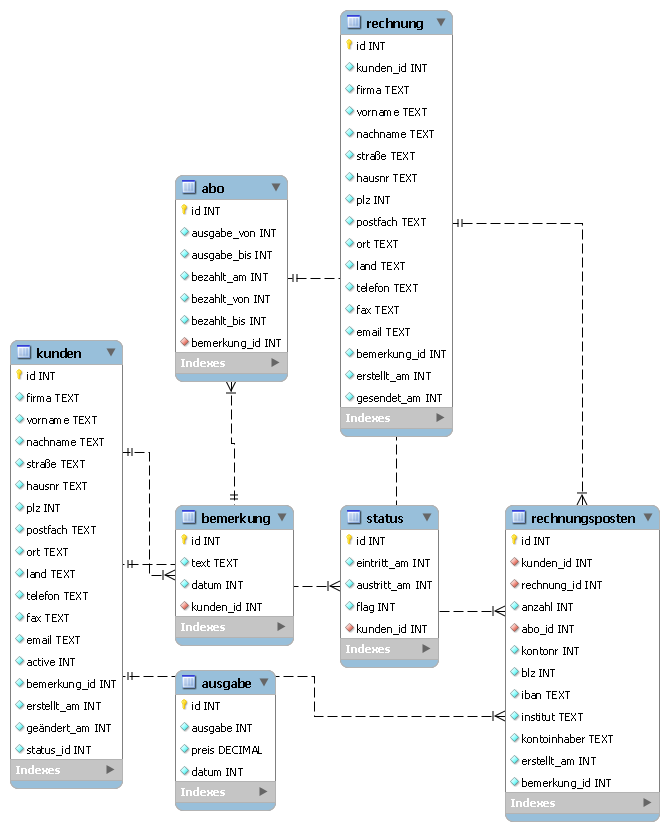
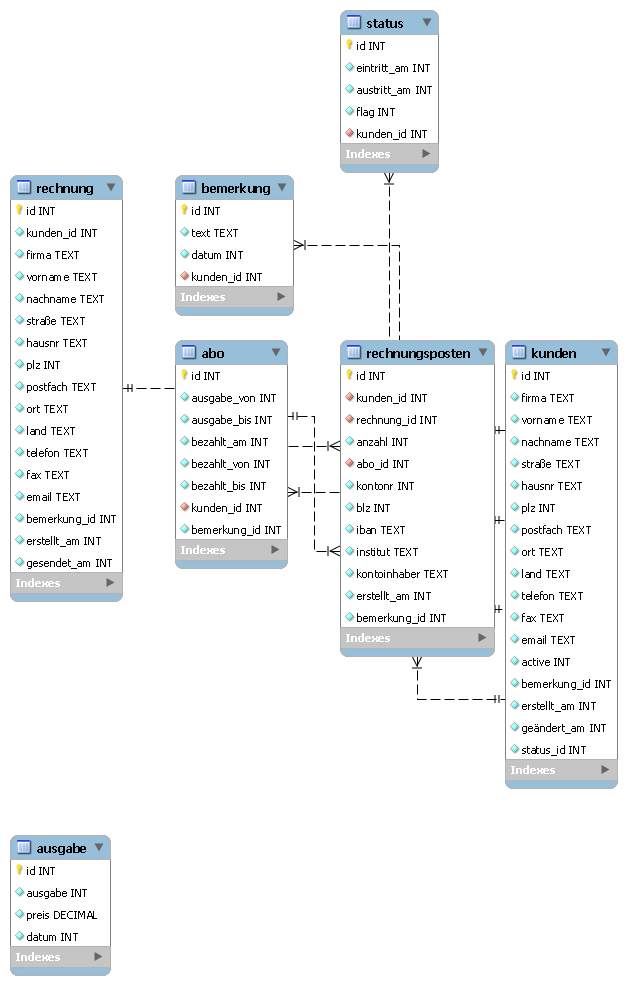
Abo-Tabelle: foreign key für bemerkung_id entfernt, kunden_id mit foreign key hinzugefügt. Die SQL-Scripte sowie Diagramme an die Änderungen angepasst.

Changed region(s): [[0.0, 0.0, 1.0, 0.9928]]

diff --git a/consolen_anwendung/DBTest/Program.cs b/consolen_anwendung/DBTest/Program.cs
@@ -41,7 +41,7 @@ namespace DBTest
             Console.WriteLine("Datenbankversion: " + db.getVersionString());
 
             createSampleDataAllTables(db); //keine Änderung
-            //createSampleDataAllTables(db); //schneller geworden.
+            createSampleDataAllTables(db); //schneller geworden.
 
             Console.WriteLine("--------------------------------------------------------");
 
